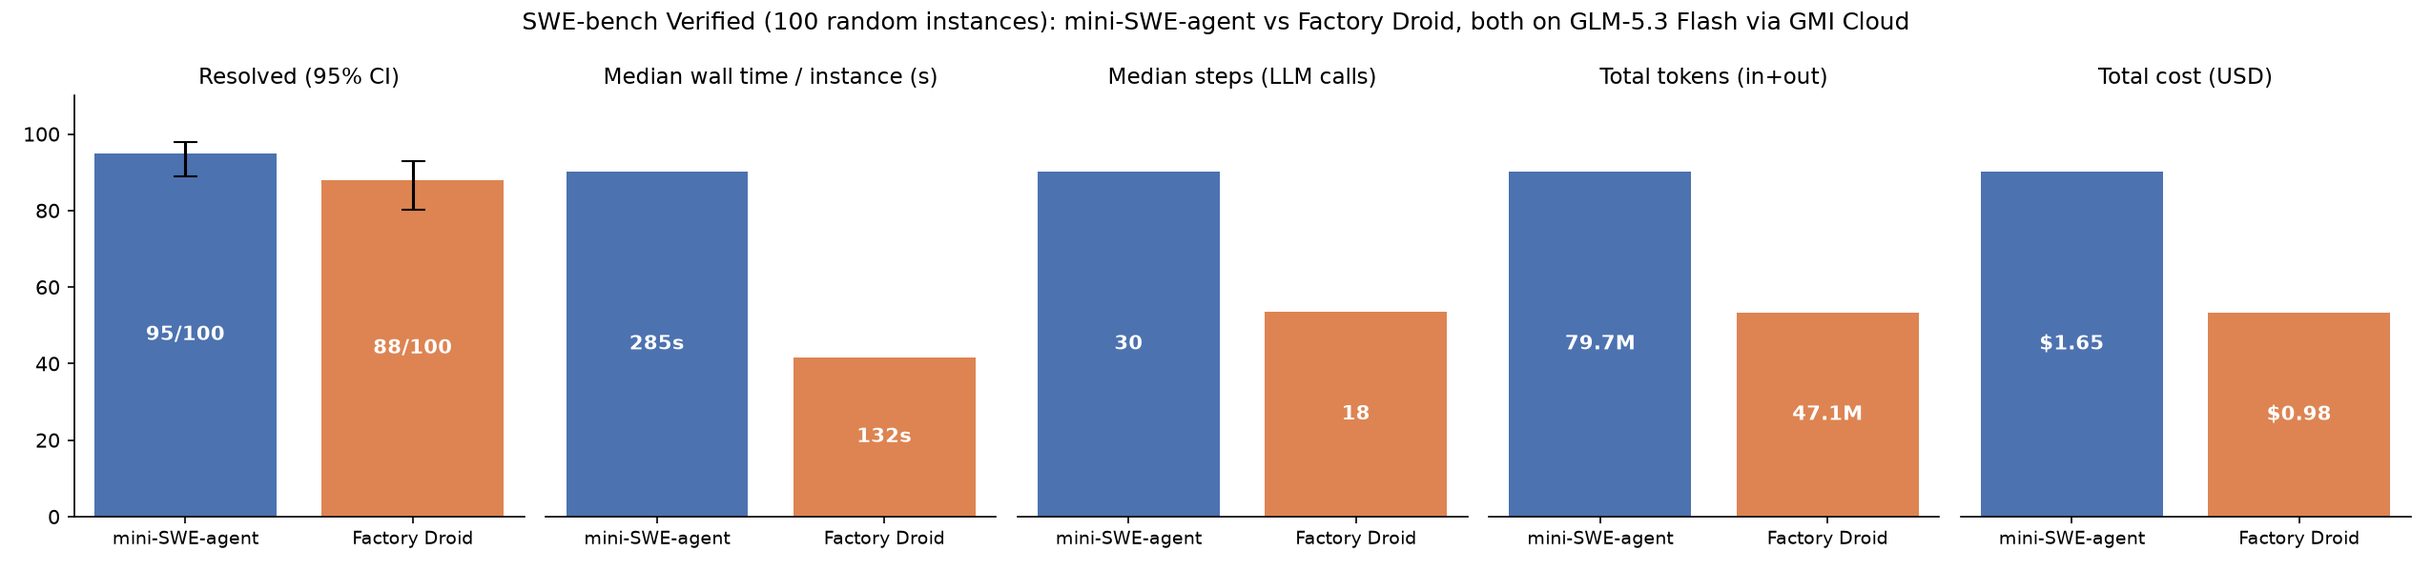
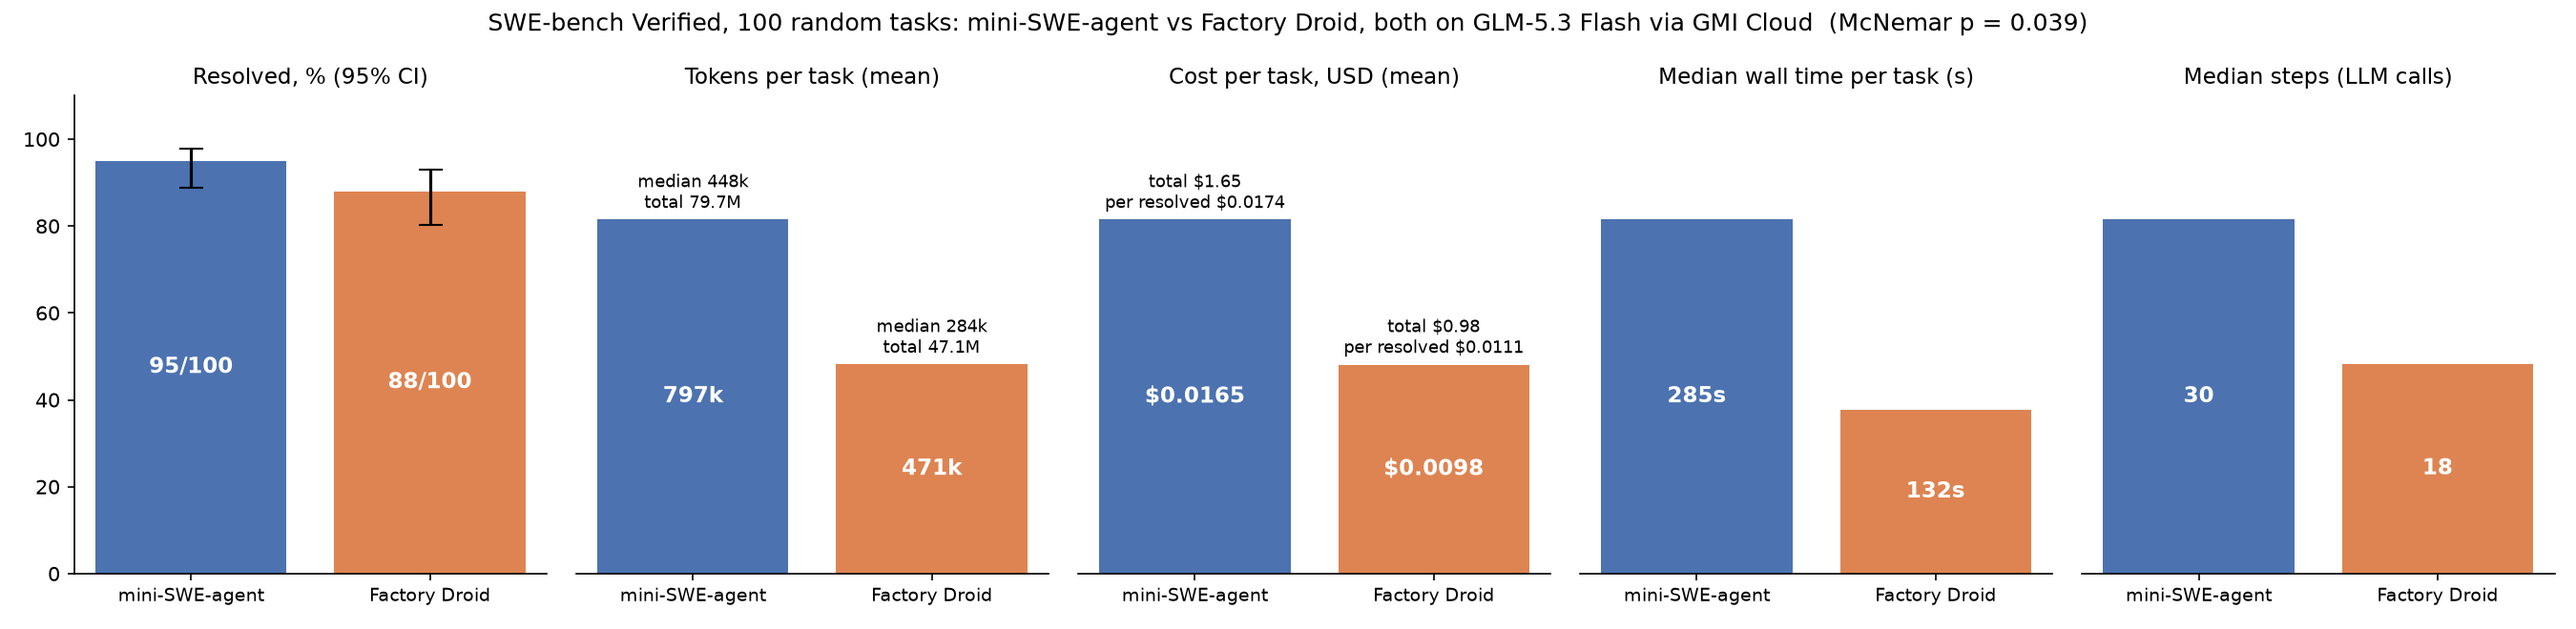
README: per-agent token/cost table; chart with tokens-per-task and cost-per-task panels

diff --git a/bench/swe_chart.py b/bench/swe_chart.py
@@ -2,6 +2,7 @@
 from __future__ import annotations
 
 import json
+import statistics
 import sys
 from pathlib import Path
 
@@ -17,36 +18,52 @@ COLORS = {"mini": "#4C72B0", "droid": "#DD8452"}
 def main(out: Path) -> Path:
     s = json.loads((out / "summary.json").read_text())
     cfg = json.loads((out / "run_config.json").read_text())
-    ag = s["agg"]
+    rows = [json.loads(x) for x in (out / "runs.jsonl").read_text().splitlines() if x.strip()]
+    latest = {(r["instance_id"], r["agent"]): r for r in rows}
     agents = ["mini", "droid"]
+    st = {}
+    for a in agents:
+        rs = [r for r in latest.values() if r["agent"] == a]
+        tok = [r["prompt_tokens"] + r["completion_tokens"] for r in rs]
+        cost = [r["cost_usd"] for r in rs]
+        k = sum(r["resolved"] for r in rs)
+        st[a] = {"n": len(rs), "k": k, "ci": s["agg"][a]["ci"],
+                 "tok_mean": statistics.mean(tok), "tok_med": statistics.median(tok), "tok_tot": sum(tok),
+                 "cost_mean": statistics.mean(cost), "cost_tot": sum(cost), "cps": sum(cost) / k,
+                 "wall": statistics.median(r["wall_s"] for r in rs), "steps": statistics.median(r["steps"] for r in rs)}
     panels = [
-        ("Resolved (95% CI)", lambda a: 100 * ag[a]["k"] / ag[a]["n"], lambda a: f"{ag[a]['k']}/{ag[a]['n']}"),
-        ("Median wall time / instance (s)", lambda a: ag[a]["wall"], lambda a: f"{ag[a]['wall']:.0f}s"),
-        ("Median steps (LLM calls)", lambda a: ag[a]["steps"], lambda a: f"{ag[a]['steps']:.0f}"),
-        ("Total tokens (in+out)", lambda a: ag[a]["tok"], lambda a: f"{ag[a]['tok']/1e6:.1f}M"),
-        ("Total cost (USD)", lambda a: ag[a]["cost"], lambda a: f"${ag[a]['cost']:.2f}"),
+        ("Resolved, % (95% CI)", lambda a: 100 * st[a]["k"] / st[a]["n"], lambda a: f"{st[a]['k']}/{st[a]['n']}", None),
+        ("Tokens per task (mean)", lambda a: st[a]["tok_mean"],
+         lambda a: f"{st[a]['tok_mean']/1e3:.0f}k", lambda a: f"median {st[a]['tok_med']/1e3:.0f}k\ntotal {st[a]['tok_tot']/1e6:.1f}M"),
+        ("Cost per task, USD (mean)", lambda a: st[a]["cost_mean"],
+         lambda a: f"${st[a]['cost_mean']:.4f}", lambda a: f"total ${st[a]['cost_tot']:.2f}\nper resolved ${st[a]['cps']:.4f}"),
+        ("Median wall time per task (s)", lambda a: st[a]["wall"], lambda a: f"{st[a]['wall']:.0f}s", None),
+        ("Median steps (LLM calls)", lambda a: st[a]["steps"], lambda a: f"{st[a]['steps']:.0f}", None),
     ]
-    fig, axes = plt.subplots(1, 5, figsize=(17, 4))
-    for j, (ax, (title, val, lab)) in enumerate(zip(axes, panels)):
+    fig, axes = plt.subplots(1, 5, figsize=(18, 4.4))
+    for j, (ax, (title, val, lab, sub)) in enumerate(zip(axes, panels)):
         vals = [val(a) for a in agents]
         bars = ax.bar([LABEL[a] for a in agents], vals, color=[COLORS[a] for a in agents])
         if j == 0:
-            lo = [vals[i] - 100 * ag[a]["ci"][0] for i, a in enumerate(agents)]
-            hi = [100 * ag[a]["ci"][1] - vals[i] for i, a in enumerate(agents)]
+            lo = [vals[i] - 100 * st[a]["ci"][0] for i, a in enumerate(agents)]
+            hi = [100 * st[a]["ci"][1] - vals[i] for i, a in enumerate(agents)]
             ax.errorbar(range(2), vals, yerr=[lo, hi], fmt="none", ecolor="black", capsize=6)
             ax.set_ylim(0, 110)
         else:
-            ax.set_ylim(0, max(vals) * 1.22)
+            ax.set_ylim(0, max(vals) * 1.35)
             ax.set_yticks([])
             ax.spines["left"].set_visible(False)
         for b, a in zip(bars, agents):
-            ax.annotate(lab(a), (b.get_x() + b.get_width() / 2, b.get_height() / 2), ha="center", va="center",
-                        fontsize=10, color="white", fontweight="bold")
+            ax.annotate(lab(a), (b.get_x() + b.get_width() / 2, b.get_height() * 0.5), ha="center", va="center",
+                        fontsize=11, color="white", fontweight="bold")
+            if sub:
+                ax.annotate(sub(a), (b.get_x() + b.get_width() / 2, b.get_height()), ha="center", va="bottom",
+                            fontsize=8.5, xytext=(0, 3), textcoords="offset points")
         ax.set_title(title, fontsize=11)
         ax.spines[["top", "right"]].set_visible(False)
         ax.tick_params(axis="x", labelsize=9)
-    fig.suptitle(f"SWE-bench Verified ({s['n']} random instances): mini-SWE-agent vs Factory Droid, "
-                 f"both on {cfg['display_name']} via GMI Cloud", fontsize=12)
+    fig.suptitle(f"SWE-bench Verified, {s['n']} random tasks: mini-SWE-agent vs Factory Droid, both on "
+                 f"{cfg['display_name']} via GMI Cloud  (McNemar p = {s['mcnemar_p']:.3f})", fontsize=12)
     fig.tight_layout()
     path = out / "chart.png"
     fig.savefig(path, dpi=150)

diff --git a/README.md b/README.md
@@ -12,10 +12,12 @@ Built as part of the GMI Cloud Clouders ambassador programme. Tag: [@gmi_cloud](
 
 ![SWE-bench chart](results/swebench/main/chart.png)
 
-| Agent | Resolved | 95% CI | Median time / instance | Median steps | Median tokens (in / out) | Total tokens | Total cost | Cost per resolved |
+| Agent | Resolved (95% CI) | Total tokens | Tokens per task (median / mean) | Total cost | Cost per task (mean) | Cost per resolved task | Median time per task | Median steps |
 | --- | ---: | ---: | ---: | ---: | ---: | ---: | ---: | ---: |
-| mini-SWE-agent | **95/100** | 89%–98% | 285 s | 30 | 439k / 11.4k | 79.7M | $1.65 | $0.0174 |
-| Factory Droid | 88/100 | 80%–93% | **132 s** | **18** | **277k / 4.8k** | **47.1M** | **$0.98** | **$0.0111** |
+| mini-SWE-agent | **95/100** (89–98%) | 79.7M | 448k / 797k | $1.65 | $0.0165 | $0.0174 | 285 s | 30 |
+| Factory Droid | 88/100 (80–93%) | **47.1M** | **284k / 471k** | **$0.98** | **$0.0098** | **$0.0111** | **132 s** | **18** |
+
+Tokens are input + output as metered by the relay (96–97% of input tokens were prompt-cache hits). Cost uses GMI's GLM-5.3 Flash price: $0.075 input / $0.015 cached / $0.25 output per 1M tokens.
 
 Paired on the same 100 instances: both resolved 87, **only mini-SWE-agent 8**, only Droid 1, neither 4. Exact McNemar test: **p = 0.039**.
 
